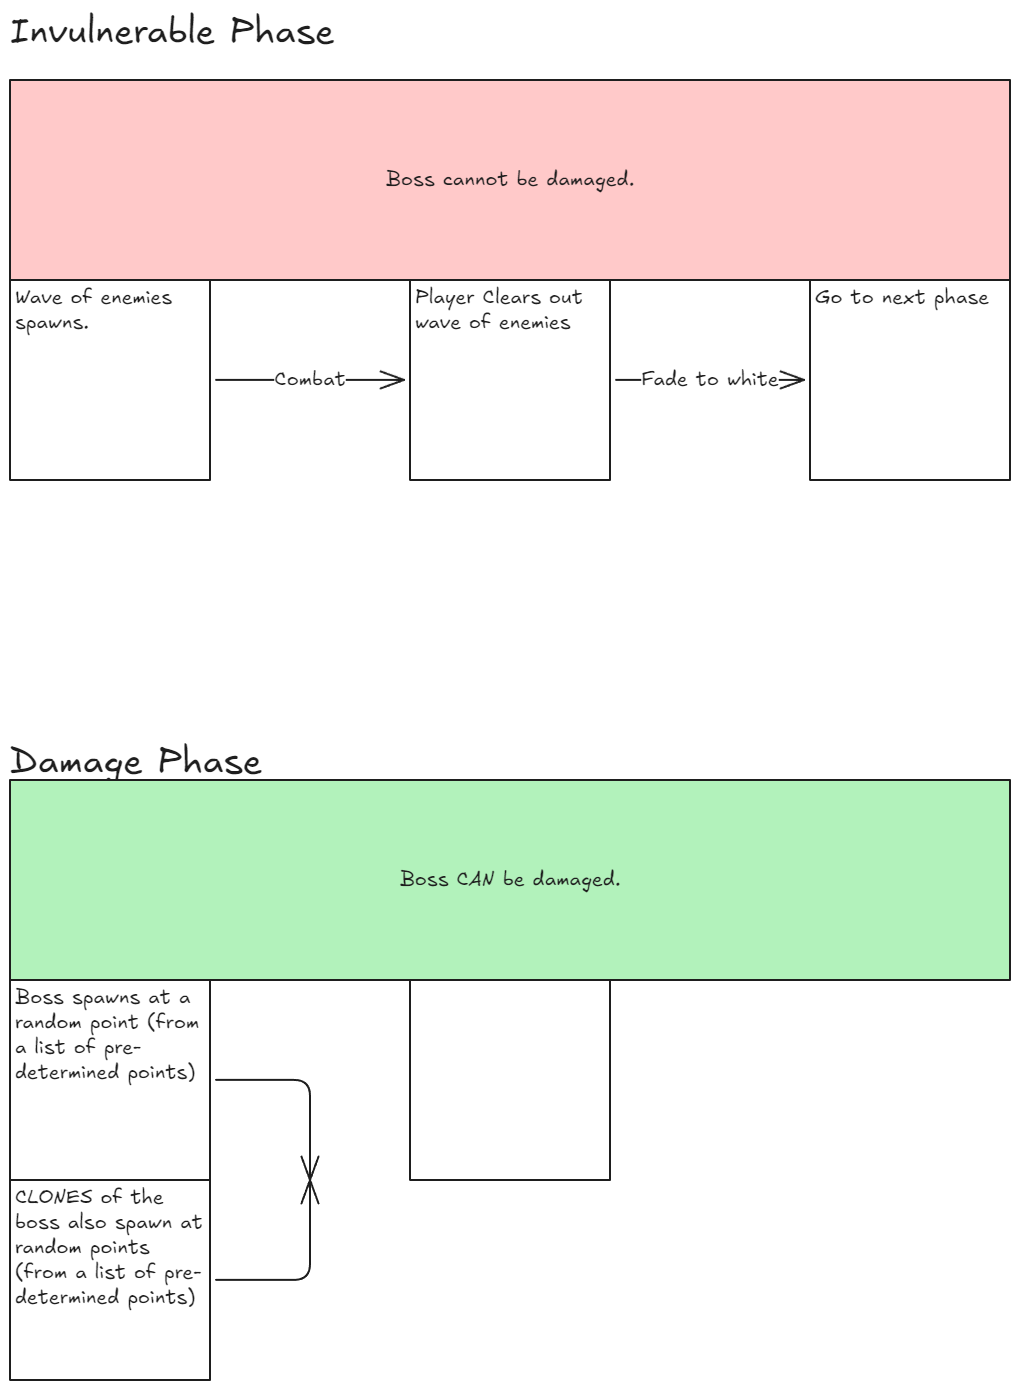
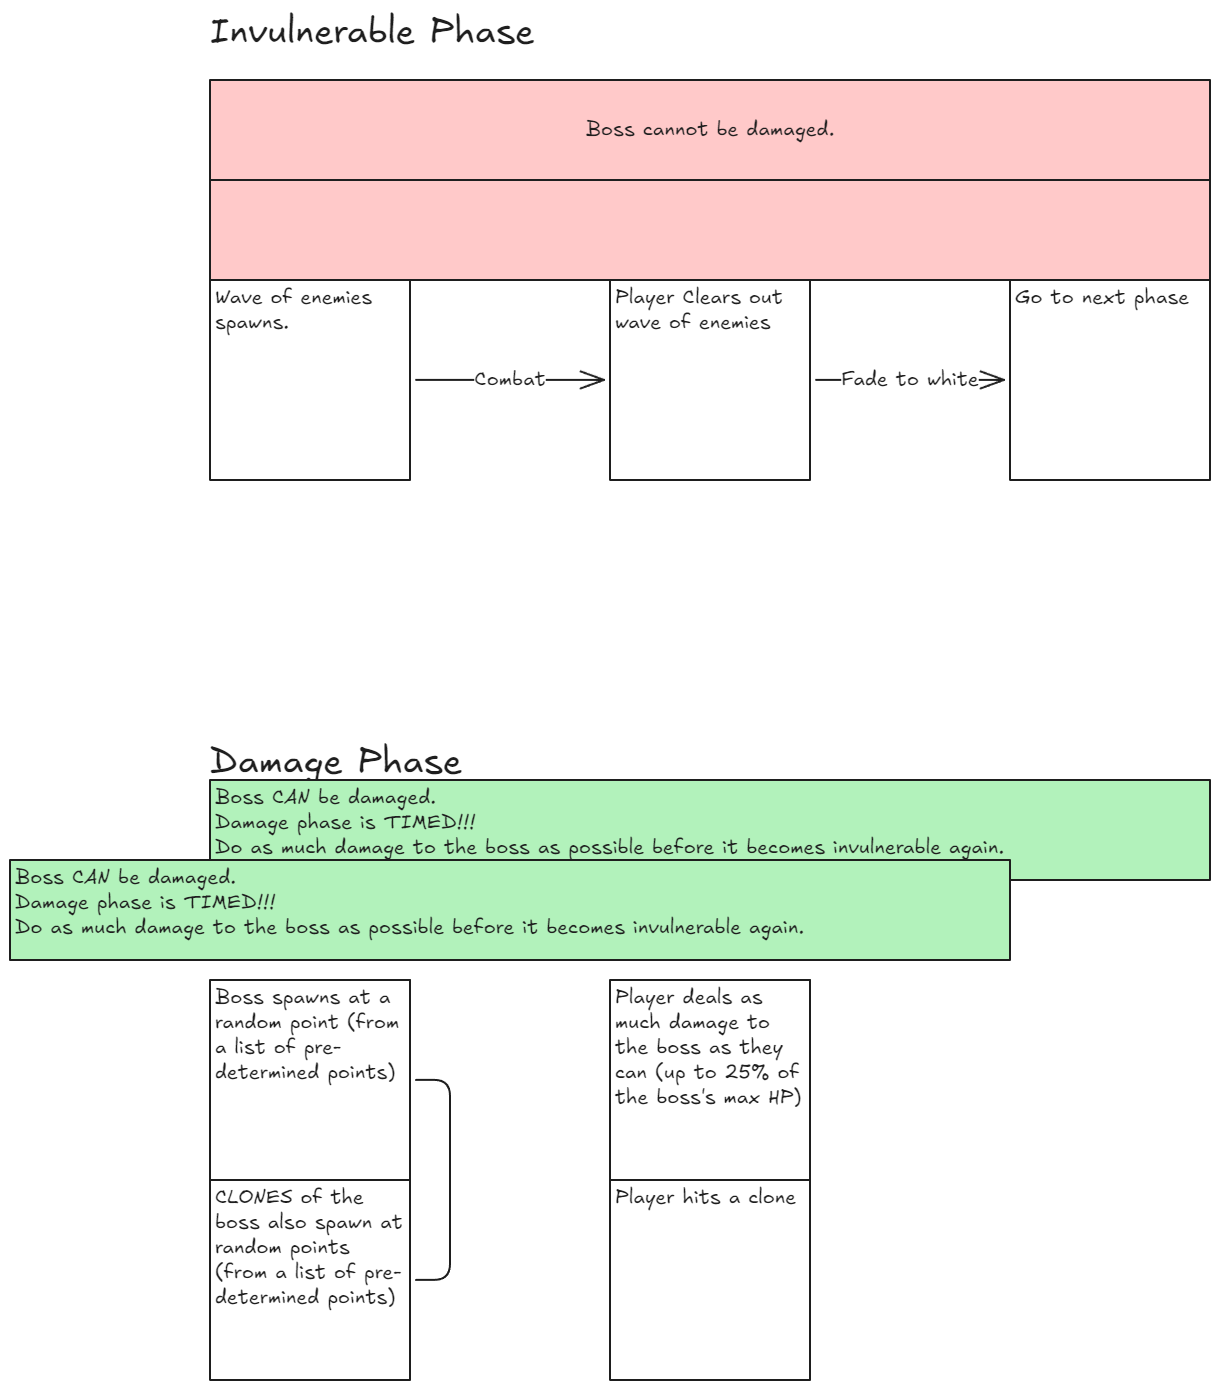
vault backup: 2026-06-24 12:23:13

diff --git a/Projects/Summer Project/Mechanics/Boss03/Boss03 Graph.md b/Projects/Summer Project/Mechanics/Boss03/Boss03 Graph.md
@@ -28,99 +28,125 @@ Fade to white ^U1JmJdOw
 
 Damage Phase ^J4kmwQmB
 
-Boss CAN be damaged. ^4T2kUCoL
+Boss CAN be damaged.
+Damage phase is TIMED!!!
+Do as much damage to the boss as possible before it becomes invulnerable again. ^4T2kUCoL
 
 Boss spawns at a random point (from a list of pre-determined points) ^DFLK058q
 
 CLONES of the boss also spawn at random points (from a list of pre-determined points) ^pTj7ydsf
 
- ^SMTdboUh
+Player deals as much damage to the boss as they can (up to 25% of the boss's max HP) ^SMTdboUh
+
+Player hits a clone ^VSAD5s6J
+
+Boss CAN be damaged.
+Damage phase is TIMED!!!
+Do as much damage to the boss as possible before it becomes invulnerable again. ^v8e94oZU
 
 %%
 ## Drawing
 ```compressed-json
[1 lines of base64/hex data omitted]
 
[2 lines of base64/hex data omitted]
 
[2 lines of base64/hex data omitted]
 
[2 lines of base64/hex data omitted]
 
[2 lines of base64/hex data omitted]
 
[2 lines of base64/hex data omitted]
 
[2 lines of base64/hex data omitted]
 
[2 lines of base64/hex data omitted]
 
[2 lines of base64/hex data omitted]
 
[2 lines of base64/hex data omitted]
 
[2 lines of base64/hex data omitted]
 
[2 lines of base64/hex data omitted]
 
[2 lines of base64/hex data omitted]
 
[2 lines of base64/hex data omitted]
 
[2 lines of base64/hex data omitted]
 
[2 lines of base64/hex data omitted]
 
[2 lines of base64/hex data omitted]
 
[2 lines of base64/hex data omitted]
 
[2 lines of base64/hex data omitted]
 
[2 lines of base64/hex data omitted]
 
[2 lines of base64/hex data omitted]
 
[2 lines of base64/hex data omitted]
 
[2 lines of base64/hex data omitted]
 
[2 lines of base64/hex data omitted]
 
[2 lines of base64/hex data omitted]
 
[2 lines of base64/hex data omitted]
 
[2 lines of base64/hex data omitted]
 
[2 lines of base64/hex data omitted]
 
[2 lines of base64/hex data omitted]
 
[2 lines of base64/hex data omitted]
 
[2 lines of base64/hex data omitted]
 
[2 lines of base64/hex data omitted]
 
[2 lines of base64/hex data omitted]
 
[2 lines of base64/hex data omitted]
 
[2 lines of base64/hex data omitted]
 
[2 lines of base64/hex data omitted]
 
[2 lines of base64/hex data omitted]
 
[2 lines of base64/hex data omitted]
 
[2 lines of base64/hex data omitted]
 
[2 lines of base64/hex data omitted]
 
[2 lines of base64/hex data omitted]
 
[2 lines of base64/hex data omitted]
+
[1 lines of base64/hex data omitted]
+
[1 lines of base64/hex data omitted]
+
[1 lines of base64/hex data omitted]
+
[1 lines of base64/hex data omitted]
+
[1 lines of base64/hex data omitted]
+
[1 lines of base64/hex data omitted]
+
[1 lines of base64/hex data omitted]
+
[1 lines of base64/hex data omitted]
+
[1 lines of base64/hex data omitted]
 ```
 %%
